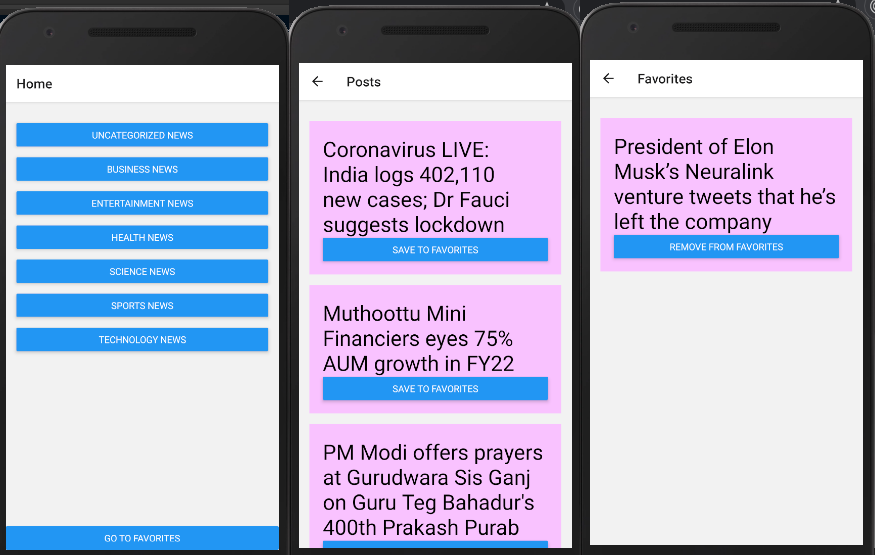
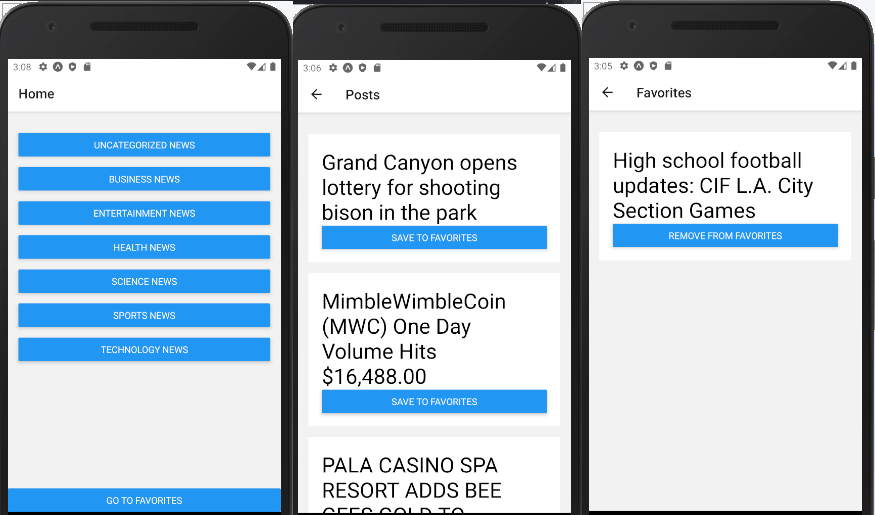
refactor: better to use Card reussable component

diff --git a/src/screens/Posts/index.js b/src/screens/Posts/index.js
@@ -7,31 +7,23 @@ import {
   StyleSheet,
   Text,
   StatusBar,
-  ActivityIndicator,
-  Alert,
 } from "react-native";
+import Card from "../../components/Card";
 import { Loading } from "../../components/Loading";
 import { saveValueToStore } from "../../utils/FavoritesStore";
 // mock data
 import data from "./data.json";
 const DATA = data.data;
 
-
-
-const Item = ({ item }) => (
-  <View style={styles.item}>
-    <Text style={styles.title}>{item.title}</Text>
-    <Button
-      title="Save to Favorites"
-      onPress={() => {
-        saveValueToStore(item);
-      }}
-    />
-  </View>
+const renderItem = ({ item }) => (
+  <Card
+    item={item}
+    onButtonPress={() => saveValueToStore(item)}
+    buttonText="Save to Favorites"
+  />
 );
-const Posts = ({ route, navigation }) => {
-  const renderItem = ({ item }) => <Item item={item} />;
 
+const Posts = ({route}) => {
   const [loading, setLoading] = useState(false);
   const [error, setError] = useState(null);
   const [data, setData] = useState([]);
@@ -39,12 +31,12 @@ const Posts = ({ route, navigation }) => {
   const getData = async () => {
     // use mock data
     /*
-    setLoading(true)
-    setTimeout(()=>{
-        setData(DATA)
-        setLoading(false)
-    }, 1000)
-    */    
+    setLoading(true);
+    setTimeout(() => {
+      setData(DATA);
+      setLoading(false);
+    }, 1000);
+    */
     
     try {
      
@@ -72,7 +64,7 @@ const Posts = ({ route, navigation }) => {
     getData();
   }, []);
 
-  if (loading) return <Loading/>;
+  if (loading) return <Loading />;
   if (error) return <Text>some error happen</Text>;
   return (
     <SafeAreaView style={styles.container}>

diff --git a/src/screens/Favorites/index.js b/src/screens/Favorites/index.js
@@ -12,6 +12,7 @@ import {
   Text,
   StatusBar,
 } from "react-native";
+import Card from "../../components/Card";
 
 const Item = ({ id, title, onItemRemoved }) => (
   <View style={styles.item}>
@@ -33,10 +34,19 @@ const Favorites = () => {
     getData();
   }, []);
 
-  const renderItem = ({ item }) => (
+  /*const renderItem = ({ item }) => (
     <Item id={item.id} title={item.title} onItemRemoved={getData} />
+  );*/
+  const renderItem = ({ item }) => (
+    <Card
+      item={item}
+      onButtonPress={async () => {
+        await removeValueFromStore(item.id);
+        getData()
+      }}
+      buttonText="Remove from Favorites"
+    />
   );
-
   return (
     <SafeAreaView style={styles.container}>
       <FlatList

diff --git a/src/components/Card.js b/src/components/Card.js
@@ -1,0 +1,29 @@
+import React, { useEffect, useState } from "react";
+import { Button, View, StyleSheet, Text } from "react-native";
+import colors from "../constants/colors";
+
+const Card = ({ item, onButtonPress, buttonText = "" }) => (
+  <View style={styles.item}>
+    <Text style={styles.title}>{item.title}</Text>
+    <Button
+      title={buttonText}
+      onPress={() => {
+        onButtonPress(item);
+      }}
+    />
+  </View>
+);
+
+const styles = StyleSheet.create({
+  item: {
+    backgroundColor: colors.white,
+    padding: 20,
+    marginVertical: 8,
+    marginHorizontal: 16,
+  },
+  title: {
+    fontSize: 32,
+  },
+});
+
+export default Card;

diff --git a/src/utils/FavoritesStore.js b/src/utils/FavoritesStore.js
@@ -12,7 +12,7 @@ export const getValuesFromStore = async () => {
   }
 };
 
-export const removeValueFromStore = async (idToRemove, cb) => {
+export const removeValueFromStore = async (idToRemove) => {
   try {
     const itemsFromStore = await AsyncStorage.getItem(FAVORITES_KEY);
     const items = itemsFromStore ? JSON.parse(itemsFromStore) : [];
@@ -23,7 +23,7 @@ export const removeValueFromStore = async (idToRemove, cb) => {
       JSON.stringify(filteredItems)
     );
     Alert.alert("Item Removed");
-    cb();
+    return;
   } catch (error) {
     console.log(error);
     Alert.alert("Error When Trying To Remove Item");

diff --git a/README.md b/README.md
@@ -6,9 +6,9 @@ This project purpose was a tech assignment for one of companies i applyed to
 # Requirements
 ![Image of Requirements](https://raw.githubusercontent.com/shootermv/my-news-app/main/requirements.PNG)
 # Tech Stack
-React-Native  
-Expo - Why Expo? - Beacuse i wanted to play with this interesting tool  
-Yarn -  because of popular song "forever yarn"
+* React-Native  - because it is cool
+* Expo - because i wanted to play with this interesting tool  
+* Yarn - because of popular song "forever yarn"
 
 ### Installation
 you need to have android studio or xcode installed on your machine 
